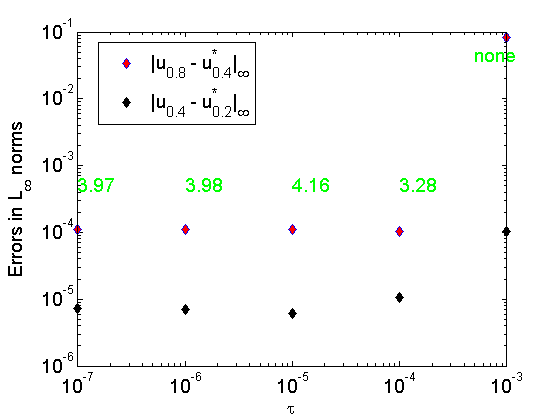
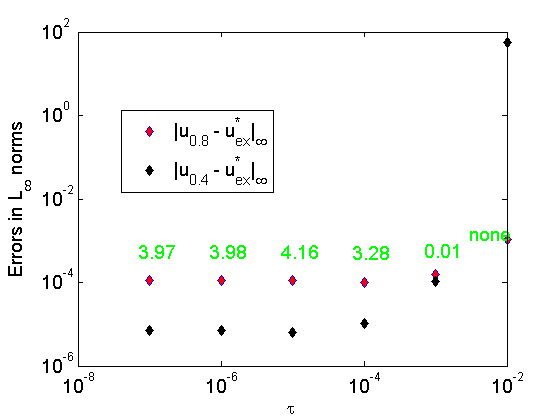
convergence taylor

diff --git a/Docu/statiqVesi/goodBoussinesq.tex b/Docu/statiqVesi/goodBoussinesq.tex
@@ -239,13 +239,13 @@ The numerical tests for both, the Conservative FDS and Taylor method ($p=2$), sh
 	\label{gridsT}
 \end{table}
 
-The numerical methods described in the article are tested (at least) on six different grids defined in Table \rf{gridsT}. The Conservative FDS uses second approximation order on all grids while the Taylor method uses second approximation order on Grid 1 and fourth on Grid 2 and Grid 3. Later, other combinations of $h$ and $\tau$ are also used and are explicitly defined.
+The numerical methods described in the article are tested (at least) on six different grids defined in Table \rf{gridsT}. The Conservative FDS uses second approximation order on all grids while the Taylor method uses second (on Grid 1 and Grid 2) and fourth approximation order (on Grid 2 and Grid 3). Later, other combinations of $h$ and $\tau$ are also used and are explicitly defined.
 
-The discrete time interval for the numerical simulations is $[0, 10]$ unless stated otherwise. For that time, the two waves move against each other and at the moment $T=10$ are seen just before their collision. There is one additional experiment, with a time interval [0, 35], where the waves pass through each other (i.e. collide) and the distance between them at the final moment $T$ is approximately the same as at the initial moment $T_0$. 
+The discrete time interval for the numerical simulations is $[0, 10]$ unless stated otherwise. For that time, the two waves move against each other and at the moment $T=10$ are seen just before their collision. There is one additional experiment, with a time interval $[0, 35]$, where the waves pass through each other (i.e. collide) and the distance between them at the final moment $T=35$ is approximately the same as at the initial moment $T_0$. 
 
 All computations are done with $-L_1 = L_2 = 60$.
 Zero boundary condition is used on the computational edges of the space domain $[L_1, L_2]$. In case of the second derivative, with fourth approximation order, used inside the Taylor method, the finite difference stencil extends an extra point outside the $L_1$ and $L_2$ boundaries and the numerical solution is approximated again with $0$. The same is also valid for the fourth spatial derivative, with second approximation order, used in the Conservative FDS. This decision is taken because, the unknown function near the computational boundaries is calculated to be lower than $1e-10$ (using \rf{orgBsqSol}). Furthermore, it is confirmed that
-this approximation does not affect the convergence speed caclulated with Runge's rule (see Table \rf{tableA}).
+this approximation does not affect the convergence speed caclulated with Runge's rule (see Table \rf{tableA} and \rf{tableC}).
 
 \subsection{Convergence Rate for the Conservative FDS}
 
@@ -394,7 +394,8 @@ $O(h^4 + \tau^ 4)$    &0.4, 1e-03          &0.221571623 &            & 0.084116 
 %\caption{On the left panel we see the effect of decreasing the time step $\tau$. Errors $E_i$ are measured in $L_\infty$ norms and fourth approximation order ($p=4$). The green values mark the convergence speed, measured with Runge's rule \rf{Runge}, based on the measured errors $E_i$. On the right panel the solution diverges as the time step is bigger than $h$ squared $\tau > h^2$.}
 %\label{figConvSeq}
 %\end{figure}
-Figure \rf{figConvSeq} shows the effect of modifing the time step $\tau$ on the solution convergence. The nested space grids obtain the following step sizes: $h=0.8, 0.4$, with end time $T=10$. For $\tau>1e-4$, the stability of the Taylor Series method breaks as the $L_2$ and $L_\infty$ errors become much higher compared to the maximum of the solution wave $|u_h|_\infty$. The solution diverges and becomes non-smooth (e.g. the graph is jagged) and there is no convergence. On the other hand, if the step decreases and $\tau<1e-5$, convergence speed is near 4 which reflects the fourth approximation order that is used. The respective convergence speeds and results when using the $L_2$ error norms are similar and are omitted.
+Figure \rf{figConvSeq} shows the effect of modifing the time step $\tau$ on the solution convergence. The nested space grids obtain the following step sizes: $h=0.8, 0.4$, with end time $T=10$ and fourth approximation order $p=4$. For $\tau>1e-4$, the stability of the Taylor method breaks as the $L_2$ and $L_\infty$ errors become much higher compared to the maximum of the solution wave $|u_h|_\infty$. The solution diverges and becomes non-smooth (e.g. the graph is jagged) and there is no convergence. On the other hand, if the time step decreases and $\tau \le 1e-4$, convergence speed is near 4, which reflects the fourth approximation order that is used. The respective convergence speeds and results when using the $L_2$ error norms are similar and are omitted. From this analysis, we could see that $\tau < h^4$ (see Figure (\ref{figConvSeq}b)) is a necessary condition for the stability of the Taylor method with $p=4$.
+
 In conclusion, we see that the numerical solution is calculated with a convergence rate of about $2.01$ or higher when $p=2$ and $3.96$ or higher when $p=4$. Decreasing the step sizes $h$ or $\tau$, or increasing the approximation order $p$, decreases the errors of the numerical solution.
 
 \subsection{Numerical Results for the Mass}
@@ -429,7 +430,7 @@ Taylor, $p=4$    &  (0.4, 6.25e-5) & 1.666666e+00 &  3.002585e-08               
 		\caption{ The mass and its deviations from initial value measured on different grids. }
 \label{tableMass}
 \end{table}
-One could see that all deviations are lower (at least 10 times) than the errors measured when comparing the numerical solution with the exact one (see Table \rf{tableC} and Table \rf{tableA}). On Figure \rf{massFig} one could see the mass plotted for Grid 1. The values of the mass for Grid 2 and 3 are similar and thus are omitted. Table \rf{tableMass} and Figure \rf{massFig} confirm that the mass is constant over a fixed interval time ([0, 10]).
+One could see that all deviations are lower (at least 10 times) than the errors measured when comparing the numerical solution with the exact one (see Table \rf{tableC} and Table \rf{tableA}). On Figure \rf{massFig} one could see the mass plotted for Grid 1. The values of the mass for Grid 2 and 3 are similar and thus are omitted. Table \rf{tableMass} and Figure \rf{massFig} confirm that the mass is preserved with better accuracy than the numerical solution, over a fixed time interval $[0, 10]$.
 
 \begin{figure}[ht]\vspace{0.2cm}
   \centering

diff --git a/BEHyperbolic/1D/onewave/TEST_BE1D.m b/BEHyperbolic/1D/onewave/TEST_BE1D.m
@@ -10,8 +10,8 @@ h = 0.4;  tau = 0.01;
 %h = 0.4;  tau = 0.0005;  
 x = start_x:h:end_x;
 t_start = 0;
-t_interval=7.0;
-t_end = 7.0;
+t_interval=10.0;
+t_end = 10.0;
 
 beta1=1;   beta2=1;  alpha=-3; beta=beta1/beta2;
 sgm = 0.75;
@@ -218,10 +218,10 @@ end
       axis('tight')
       view(0,82);
       
-      xcon = [ 1e-07,1e-06,1e-05,1e-04,1e-03];
-      ycon = [ 3.97, 3.98, 4.16, 3.28,     0.1];
-      yerr1 = [0.0001119103,     0.0001118226,    0.0001109456, 0.0001021745, 0.084116];
-      yerr2 = [0.0000071520,     0.0000070642,    0.000006186, 0.0000105484, 0.000104696];
+      xcon = [ 1e-07,1e-06,1e-05,1e-04,1e-03, 1e-02];
+      ycon = [ 3.97, 3.98, 4.16, 3.28, 0.011 0.011];
+      yerr1 = [0.0001119103,     0.0001118226,    0.0001109456, 0.0001021745, 0.0001555689, 0.0010459783];
+      yerr2 = [0.0000071520,     0.0000070642,    0.000006186, 0.0000105484, 0.000104696, 55];
       
       figure(20)
 %       subplot(2,1,1);
@@ -234,13 +234,15 @@ end
       hold on;
       loglog(xcon,yerr2,'kd','MarkerFaceColor','k');
       hold off;
-      legend('|u_{0.8} - u^*_{0.4}|_\infty', '|u_{0.4} - u^*_{0.2}|_\infty');
-      text(1e-07, yerr1(1) + 4e-4, '3.97', 'Color', 'green','FontSize',14);
-      text(1e-06, yerr1(2) + 4e-4, '3.98', 'Color', 'green','FontSize',14);
-      text(1e-05, yerr1(3) + 4e-4, '4.16', 'Color', 'green','FontSize',14);
-      text(1e-04, yerr1(4) + 4e-4, '3.28', 'Color', 'green','FontSize',14);
-      text(5e-04, yerr1(5) - 4e-2, 'none', 'Color', 'green','FontSize',14);
+      legend('|u_{0.8} - u^*_{ex}|_\infty', '|u_{0.4} - u^*_{ex}|_\infty');
+      text(7e-08, yerr1(1) + 4e-4, '3.97', 'Color', 'green','FontSize',14);
+      text(7e-07, yerr1(2) + 4e-4, '3.98', 'Color', 'green','FontSize',14);
+      text(7e-06, yerr1(3) + 4e-4, '4.16', 'Color', 'green','FontSize',14);
+      text(7e-05, yerr1(4) + 4e-4, '3.28', 'Color', 'green','FontSize',14);
+      text(7e-04, yerr1(5) + 4e-4, '0.01', 'Color', 'green','FontSize',14);
+      text(3e-03, yerr1(6) + 4e-4, 'none', 'Color', 'green','FontSize',14);
         xlabel('\tau','FontSize',14);
         ylabel('Errors in L_\infty norms','FontSize',14);
         set(gca,'FontSize',14);
-        
+        %|u_{ex}-u_h|_L2 = 0.0002339650
+%|u_{ex}-u_h|_Inf = 0.0001055689
